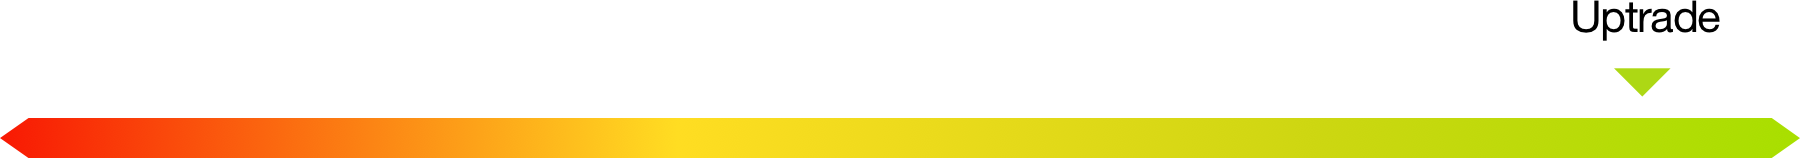
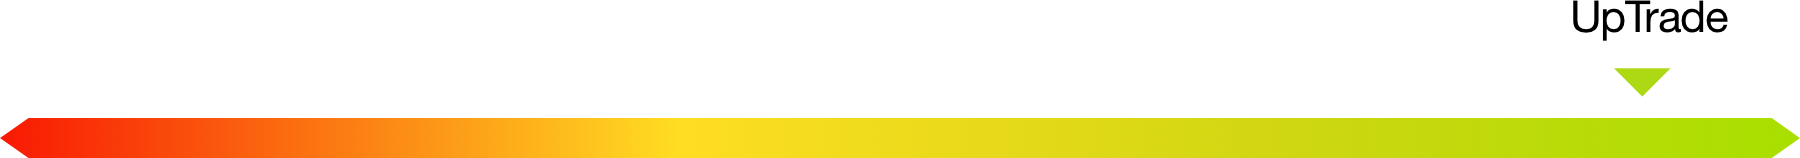
update

Changed region(s): [[0.9022, 0.0, 0.9644, 0.2278]]

diff --git a/src/containers/single/howmuch.tsx b/src/containers/single/howmuch.tsx
@@ -20,7 +20,7 @@ export default class HowMuch extends React.Component {
         <p> If you want or need to get a new phone, this guide should help you determine how much your iPhone, Samsung or other type of phone is worth. Taking care of the phone while you’re using it and taking time to prepare it for sale should also help you get maximum resale value. Also, remember, even if you aren’t able to sell your phone, there are many ways to recycle old phones.</p>
 
         <h2>How Much is My Phone Worth?</h2>
-        <p>At UpTradeIt.com, our <Link to="/sell/account">price calculator</Link> can tell you how much your Phone is worth automatically. We provide a price guarantee which tells you how much we would pay you if you decide to let us sell your phone for you. </p>
+        <p>At UpTradeIt.com, our <Link to="/sell/account">price calculator</Link> can tell you how much your Phone is worth automatically. We provide a <em>price guarantee</em> which tells you how much we would pay you if you decide to let us sell your phone for you. </p>
         <p>Here are the main factors that affect the value of your phone:</p>
         <ul>
           <li>Phone Manufacturer: Certain brands of phones command premium prices. These are your Apple iPhones and Samsungs. These companies (and others) are known for creating advanced and durable technology. </li>
@@ -33,14 +33,16 @@ export default class HowMuch extends React.Component {
         <p>One way to ensure you get the maximum resale value for your phone is to protect it while you are using it. Keeping it in a protective case can help avoid scratches and cracks. Be mindful where you place it, so it doesn’t fall onto the ground or into the toilet. Periodically wipe the screen clean with a dry cloth to help avoid dirt buildup. Don’t use harsh chemicals to clean the outside of the phone as this could damage the screen or case.</p>
         <h2>How to Prepare Your Phone for Sale</h2>
         <p>Once you’re ready to sell your phone, there are a few things you need to do to get it ready for sale. </p>
-        <p>1.Clean It: Follow the manufacturer’s recommendations on how to clean the outside of the phone. Don’t use typical household cleaners or abrasive cloths. However, try to get it as clean as possible, so it looks almost like new. </p>
-        <p>2.Wipe It: Since you’ll be selling the phone to a new user, you’ll want to remove all your private data and pictures first. You’ll need to remove the SIM card too, but this won’t wipe the data. While the process of wiping the data may vary by manufacturer, here are some general steps.</p>
-        <ul>
-          <li>Backup all of your contacts, photos and other data </li>
-          <li>Encrypt your data </li>
-          <li>Perform a factory reset</li>
-        </ul>
-        <p>3.Pack It: For the best resale value, pack your phone in its original box, along with the original accessories or whatever else you plan on selling. If you don’t have the original box, be sure to pack it carefully so it doesn’t break during shipment.</p>
+        <ol className="indent">
+          <li>Clean It: Follow the manufacturer’s recommendations on how to clean the outside of the phone. Don’t use typical household cleaners or abrasive cloths. However, try to get it as clean as possible, so it looks almost like new. </li>
+          <li>Wipe It: Since you’ll be selling the phone to a new user, you’ll want to remove all your private data and pictures first. You’ll need to remove the SIM card too, but this won’t wipe the data. While the process of wiping the data may vary by manufacturer, here are some general steps.</li>
+          <ul>
+            <li>Backup all of your contacts, photos and other data </li>
+            <li>Encrypt your data </li>
+            <li>Perform a factory reset</li>
+          </ul>
+          <li>Pack It: For the best resale value, pack your phone in its original box, along with the original accessories or whatever else you plan on selling. If you don’t have the original box, be sure to pack it carefully so it doesn’t break during shipment.</li>
+        </ol>
         <h2>What if an Old Phone Has No Resale Value?</h2>
         <p>If your phone is too old or too broken and has no resale value, don’t just throw it into the trash. Old electronics make up approximately 70% of the toxic waste in landfills. Please don’t add to this environmental problem. Instead, research companies in your area that recycle phones. Here are some options for recycling:</p>
         <ul>

diff --git a/src/containers/single/howitworks.tsx b/src/containers/single/howitworks.tsx
@@ -12,10 +12,9 @@ class HowItWorks extends React.Component<RouteComponentProps>{
             <section className="page-help-howitworks">
                 <div className="article">
                     <div className="col-1">
-                        <p>Get Cash</p>
-                        <p>For Your Phone</p>
-                        <p>In Two </p>
-                        <p>Sell your phone for what it’s actually worth. Ship it and get paid. It’s that easy.</p>
+                        <p>Sell My Phone In</p>
+                        <p>Two Simple Steps </p>
+                        <p>Get cash for what it’s actually worth. Ship it and get paid. It’s that easy.</p>
                     </div>
                     <div className="col-2">
                         <img src={require('@/images/single/sell_you_phone_banner.png')} alt="" />
@@ -46,7 +45,7 @@ class HowItWorks extends React.Component<RouteComponentProps>{
                             </div>
                             <div className="content">
                                 <p>Multiple payment options</p>
-                                <p>Choose to get paid via Paypal or Check. For the fastest and easiest way to receive payment, choose Paypal.</p>
+                                <p>Choose to get paid via Paypal or eCheck. For the fastest and easiest way to receive payment, choose Paypal.</p>
                                 <p>Fast payment</p>
                                 <p>We issue payment the next business day after we have received and verified the condition of your phone.</p>
                                 <p>Premium payout</p>
@@ -69,7 +68,7 @@ class HowItWorks extends React.Component<RouteComponentProps>{
                             </thead>
                             <tbody>
                                 <tr>
-                                    <td>Minmum Price Guarantee</td>
+                                    <td>Minimum Price Guarantee</td>
                                     <td>
                                         <img className="right" src={Right} alt="" />
                                     </td>
@@ -144,7 +143,7 @@ class HowItWorks extends React.Component<RouteComponentProps>{
                         </table>
                     </section>
                     <div className="button-group">
-                        <Button className="sell-it-now" size="large" type="primary" style={{ width: 232, height: 64 }} onClick={this.onGoToSell}>Sell It Now</Button>
+                        <Button className="sell-it-now" size="large" type="primary" style={{ width: 232, height: 64 }} onClick={this.onGoToSell}>Get Started</Button>
                     </div>
                 </section>
             </section>

diff --git a/src/containers/home/index.tsx b/src/containers/home/index.tsx
@@ -28,8 +28,8 @@ export default class Home extends React.Component<object, IHomeState> {
         {
           index: 3,
           img: require("@/images/home/icon_3.png"),
-          title: 'Home Pickup or Dropoff',
-          content: 'You don’t even need to leave your home. A prepaid shipping label and box will be sent to you for mailing your phone to us.'
+          title: 'Ship for Free',
+          content: 'Shipping is on us. A prepaid shipping label will be sent to you for mailing your phone to us.'
         }
       ],
       [
@@ -37,7 +37,7 @@ export default class Home extends React.Component<object, IHomeState> {
           index: 4,
           img: require('@/images/home/icon_4.png'),
           title: 'You Get Paid Fast',
-          content: 'Multiple payment options to get cash how you want. For next day payment choose Paypal.'
+          content: 'Multiple payment options to get cash how you want.'
         },
         {
           index: 5,
@@ -104,11 +104,11 @@ export default class Home extends React.Component<object, IHomeState> {
             <ul>
               <li>
                 <h3>Trade In Programs</h3>
-                <p>Most services that buy used phones <br />offer a small credit towards your next<br /> purchase.</p>
+                <p>UpTrade pays 36% more on average. <br />Most services that buy used phones <br /> offer a small credit towards your next purchase.</p>
               </li>
               <li>
                 <h3>Peer to Peer Marketplaces</h3>
-                <p>You might get more on 3rd party <br />marketplaces, but it could take <br />weeks to get your money.</p>
+                <p>You might get more on 3rd party <br />marketplaces, but it could take weeks<br /> to get your money.</p>
               </li>
             </ul>
           </div>

diff --git a/src/containers/single/iphone.tsx b/src/containers/single/iphone.tsx
@@ -7,8 +7,8 @@ export default class Broken extends React.Component {
       <div className="page-single-iphone-container">
         <h1>How to Factory Reset iPhone and Prepare for Sell</h1>
         <div className="small">
-          <span>29 May 2019</span>
-          <span>By Up Trade</span>
+          <span>21 Feb 2019</span>
+          <span>by UpTrade</span>
           <div className="right">
             <em />
             <em />
@@ -18,7 +18,6 @@ export default class Broken extends React.Component {
         <Link to={'/'} />
         <img src={require('@/images/single/iphone_banner.png')} alt="" className="banner" />
         <p>To prepare your iPhone for shipment to UpTrade you will need to complete the following steps to ensure you keep your personal data safe and the iPhone is fully prepped for us to sell with no issues. You will want to follow Apple’s recommended steps to do so. Links to Apple’s Support page provided below for your convenience. </p>
-        <h2>How to Factory Reset iPhone and Prepare for Sell</h2>
 
         <div className="list-box">
           <div className="list">
@@ -30,7 +29,7 @@ export default class Broken extends React.Component {
 
             <p>
               <a href="https://support.apple.com/en-us/HT204568">Unpair Apple Watch</a>
-              <span>- If you have an Apple Watch paired with your iphone, you must first unpair it.</span>
+              <span>- If you have an Apple Watch paired with your iPhone, you must first unpair it.</span>
             </p>
           </div>
 

diff --git a/src/containers/single/blog.less b/src/containers/single/blog.less
@@ -68,12 +68,32 @@
     margin-top:60px;
   }
 
+  ol {
+    margin-top:-18px;
+    font-size:16px;
+    color:#808080;
+    line-height:18px;
+    padding-inline-start: 20px;
+    padding-left:2em;
+    li {
+      list-style-type: decimal;
+      list-style-position: outside;
+      margin-bottom:8px;
+    }
+
+    ul {
+      padding-left:2em;
+      margin-top:0;
+    }
+  }
+
   ul {
     margin-top:-18px;
     font-size:16px;
     color:#808080;
     line-height:18px;
     padding-inline-start: 20px;
+    padding-left:2em;
     li {
       list-style-type:disc;
       list-style-position: outside;
@@ -110,7 +130,7 @@
           text-align: center;
           line-height: 20px;
           font-size:16px;
-          line-height:18px;
+          line-height:20px;
           color:#fff;
           margin-right:6px;
         }
@@ -126,6 +146,7 @@
             font-weight: bold;
             margin-top:14px;
             display: block;
+            font-style: italic;
 
             em {
               font-style: normal;
@@ -154,7 +175,7 @@
           text-align: center;
           line-height: 20px;
           font-size:16px;
-          line-height:18px;
+          line-height:20px;
           color:#fff;
           margin-right:6px;
           display: inline-block;
@@ -163,6 +184,7 @@
           font-size:16px;
           color:#333;
           line-height:19px;
+          font-weight: bold;
         }
       }
 

diff --git a/src/containers/single/faq.tsx b/src/containers/single/faq.tsx
@@ -94,7 +94,7 @@ export default class Faq extends React.Component {
             <input type="checkbox" id="10" />
             <label htmlFor="10"><h2 className="default-h2">How and when do I get paid?<Icon type="plus" /></h2></label>
             <h2 className="noevent-h2">How and when do I get paid?<label htmlFor="10"><Icon type="plus" /></label></h2>
-            <p>Once we receive your device, we will perform a quality inspection of your device. This is normally completed the same day that it is received. If everything matches up to the original description, we will process your payment the next business day through the payment option of your choice. Keep in mind that choosing the traditional check option will delay your payment as it will need to be mailed to your home address.</p>
+            <p>Once we receive your device, we will perform a quality inspection of your device. This is normally completed the same day that it is received. If everything matches up to the original description, we will process your payment the next business day through the payment option of your choice.</p>
           </dd>
 
           <dd>

diff --git a/src/containers/single/aboutUs.tsx b/src/containers/single/aboutUs.tsx
@@ -75,7 +75,7 @@ class AboutUs extends React.Component<RouteComponentProps>{
                     <div className="col-1">
                         <p>Mission</p>
                         <p>Statement</p>
-                        <p>Our vision is to make today better so the world will be brighter tomorrow by committing to reuse, recycle, and UpTrade your life. We do this by offering a premium value for your used electronics while delivering fast, easy, safe, and trustworthy service for individuals and organizations.</p>
+                        <p>Our vision is to make today better so that the world will be brighter tomorrow; to build a company where the life of used electronics is extended through the hands of others or recycled to help reduce carbon footprint. We are committed to providing a fast, easy, safe, and trustworthy service for everyone.</p>
                     </div>
                     <div className="col-2">
                         <img src={require('@/images/single/aboutusbanner.png')} alt="" />

diff --git a/src/containers/single/android.tsx b/src/containers/single/android.tsx
@@ -6,8 +6,8 @@ export default class Broken extends React.Component {
       <div className="page-single-android-container">
         <h1>How to Factory Reset Android and Prepare for Sell</h1>
         <div className="small">
-          <span>29 May 2019</span>
-          <span>By Up Trade</span>
+          <span>21 Feb 2019</span>
+          <span>by UpTrade</span>
           <div className="right">
             <em />
             <em />
@@ -34,7 +34,7 @@ export default class Broken extends React.Component {
               <div className="number">2</div>
               <div className="title">
                 <p>Select</p>
-                <span>Settings<em>(Gear Icon)</em></span>
+                <span>Settings<em> (Gear Icon) </em></span>
               </div>
             </div>
             <img src={require('@/images/single/android_2.png')} alt="" />
